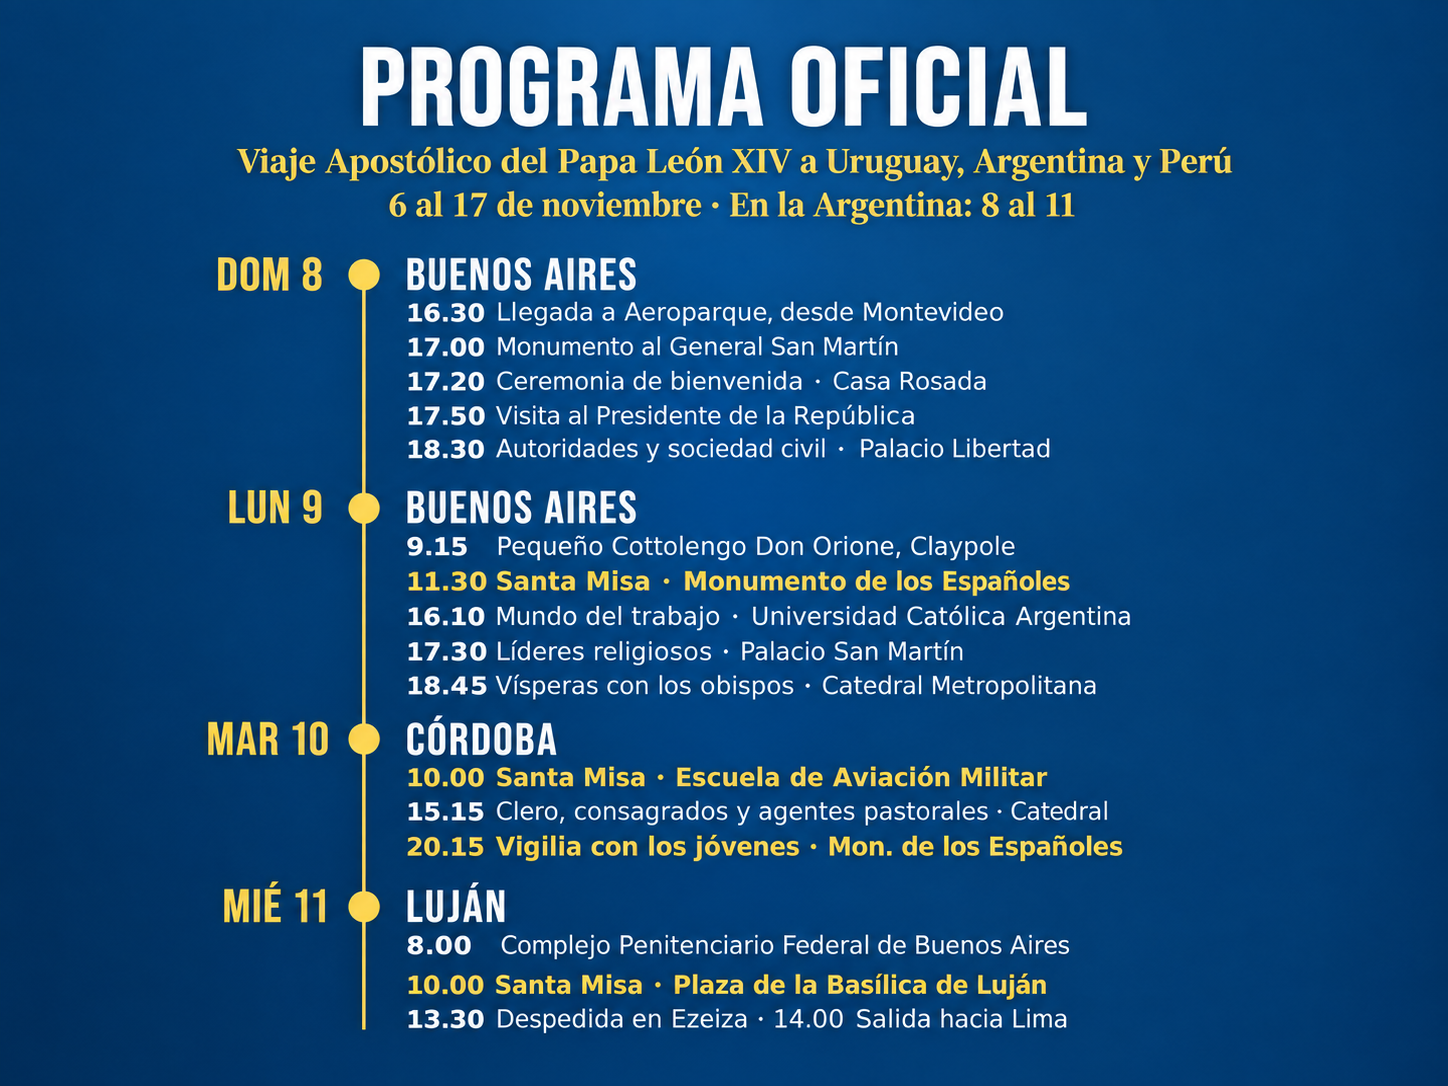
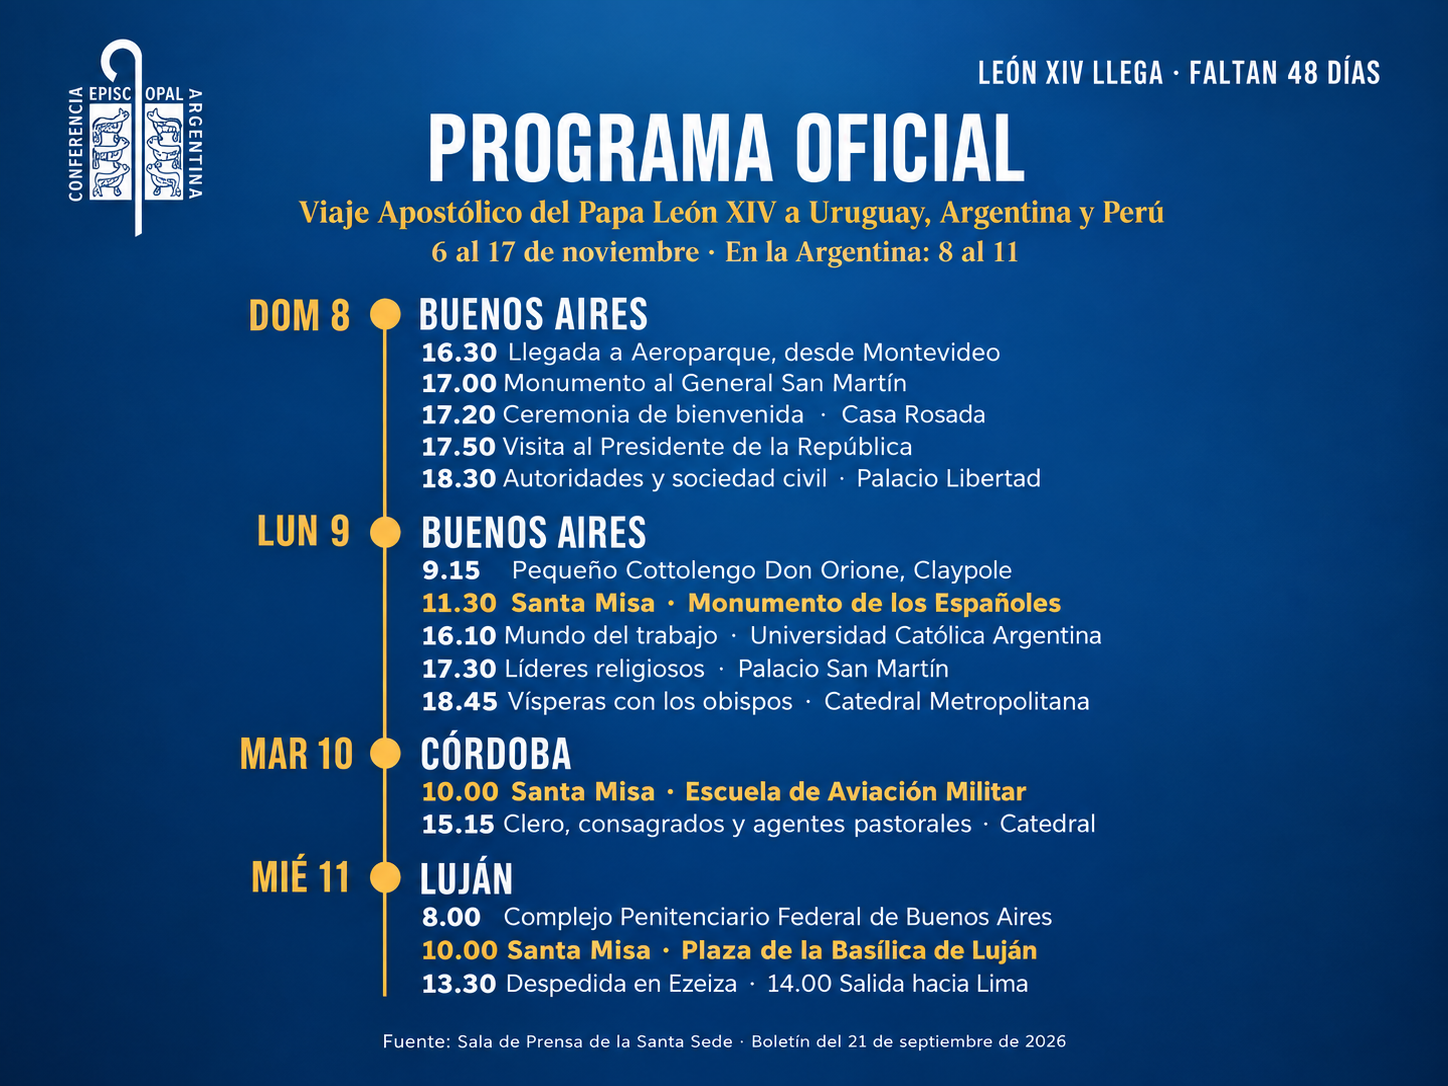
noticias

Changed region(s): [[0.0311, 0.0304, 0.9634, 0.9724]]

diff --git a/index.html b/index.html
@@ -1054,7 +1054,7 @@ La visita comenzará el domingo por la tarde, tras una misa en Florida, Uruguay,
 
 <video-card-gold
       badge="21 de Septiembre"
-      titulo="San Mateo"
+      titulo="San Mateo apostol"
       video="./asantos/21.mp4"
       style="width:auto; flex:0 0 auto;"
   
